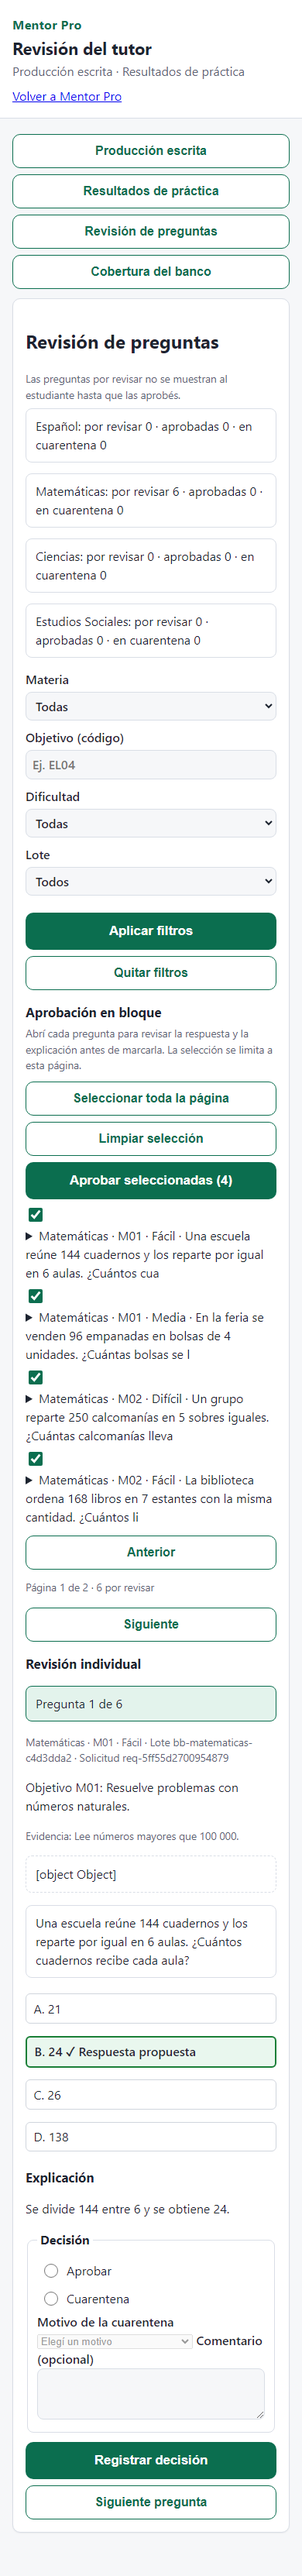
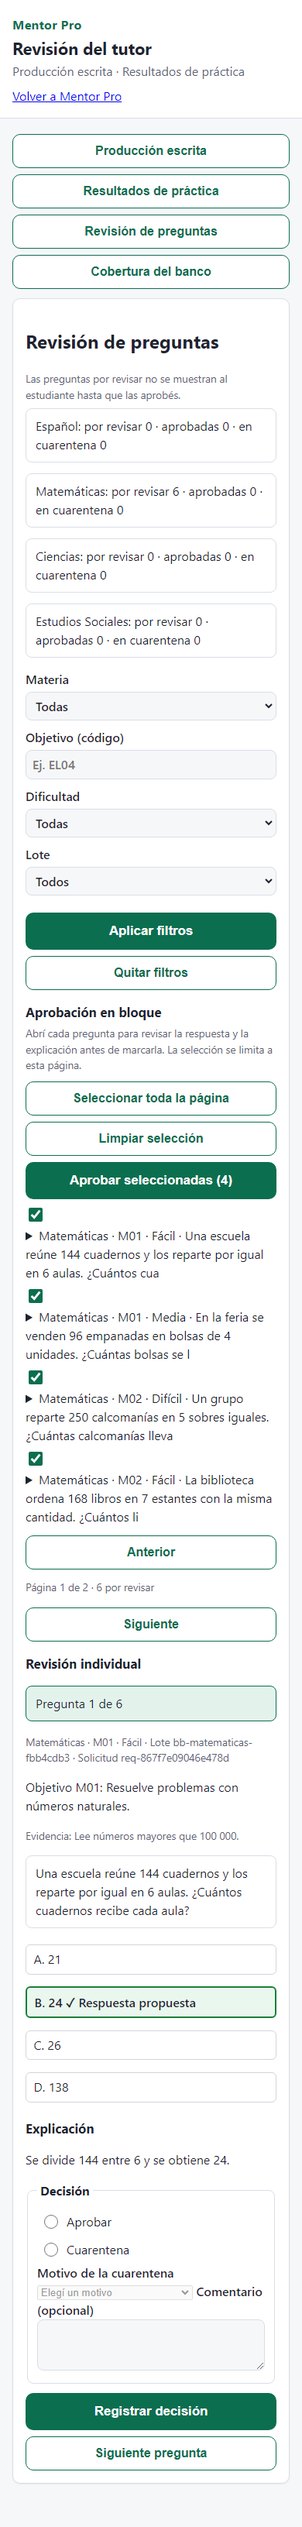
fix(T071): render structured question stimuli in tutor review
renderStimulus/showStimulus in tutor.js: {type:none} hidden, text keeps line
breaks, table text with pipe/tab rows becomes a <table>, plain strings
unchanged; DOM nodes and text only (no innerHTML). Used by the individual
review, the bulk review and the practice-results detail. Tests for plain,
text, markdown and tab tables, fallback and injection; screenshot evidence.

diff --git a/app/static/tutor.js b/app/static/tutor.js
@@ -21,6 +21,62 @@ function el(tag, attrs = {}, ...children) {
   return node;
 }
 
+// T071: a question's stimulus is {type: "none"} or {type: "text" | "table", text} (generation/parsing.py), or a
+// plain string in older records. Returns a node (or null when there is nothing to show). Built only with DOM nodes
+// and text, never innerHTML, so model-authored content cannot inject markup. A table's text becomes a <table> when
+// at least two lines are pipe- or tab-delimited; anything else keeps its line breaks, so no content is dropped.
+function stimulusText(stimulus) {
+  if (typeof stimulus === "string") return stimulus;
+  if (stimulus && typeof stimulus === "object" && stimulus.type !== "none" && typeof stimulus.text === "string") {
+    return stimulus.text;
+  }
+  return "";
+}
+
+function tableCells(line) {
+  const trimmed = line.trim();
+  if (trimmed.includes("\t")) return trimmed.split("\t").map((c) => c.trim());
+  if (!trimmed.includes("|")) return null;
+  return trimmed.replace(/^\|/, "").replace(/\|$/, "").split("|").map((c) => c.trim());
+}
+
+function renderStimulus(stimulus) {
+  const text = stimulusText(stimulus).trim();
+  if (!text) return null;
+  const box = el("div", { class: "source-text stimulus", "data-stimulus": stimulus.type || "text" });
+  const lines = text.split(/\r?\n/);
+  const rows = lines.map(tableCells);
+  if (stimulus.type !== "table" || rows.filter(Boolean).length < 2) {
+    box.textContent = text;
+    return box;
+  }
+  let table = null;
+  let header = true;
+  lines.forEach((line, i) => {
+    const cells = rows[i];
+    if (!cells) {
+      table = null;
+      header = true;
+      if (line.trim()) box.append(el("p", {}, line.trim()));
+      return;
+    }
+    if (cells.every((c) => /^:?-{2,}:?$/.test(c))) return; // markdown separator row
+    if (!table) {
+      table = el("table", { class: "stimulus-table" });
+      box.append(table);
+    }
+    table.append(el("tr", {}, ...cells.map((c) => el(header ? "th" : "td", {}, c))));
+    header = false;
+  });
+  return box;
+}
+
+function showStimulus(target, stimulus) {
+  const node = renderStimulus(stimulus);
+  target.replaceChildren(...(node ? [node] : []));
+  target.hidden = !node;
+}
+
 function token() {
   try {
     return sessionStorage.getItem(TOKEN_KEY) || "";
@@ -373,7 +429,7 @@ async function openPracticeSession(id) {
       return el("li", { class: cls, "data-label": o.label }, `${o.label}. ${o.text}`,
         ...tags.map((t) => el("span", { class: "option-tag" }, t)));
     }));
-    const stimulus = q.stimulus && q.stimulus.text ? [el("p", { class: "source-text" }, q.stimulus.text)] : [];
+    const stimulus = [renderStimulus(q.stimulus)].filter(Boolean);
     return el("li", { "data-slot": String(q.slot), "data-result": q.result },
       el("p", { class: "meta-line" }, `${q.objective_code} · ${DIFFICULTY_ES[q.difficulty] || "Sin nivel"} · ${SOURCE_ES[q.source]}`),
       ...stimulus, el("p", { class: "objective-text" }, q.stem), options,
@@ -449,8 +505,7 @@ function showReviewItem() {
     `${DIFFICULTY_ES[q.difficulty] || q.difficulty} · Lote ${q.batch_id} · Solicitud ${q.request_id}`;
   $("review-objective").textContent = `Objetivo ${q.objective_code}: ${q.objective_es}`;
   $("review-evidence").textContent = q.evidencia_es ? `Evidencia: ${q.evidencia_es}` : "";
-  $("review-stimulus").textContent = q.stimulus || "";
-  $("review-stimulus").hidden = !q.stimulus;
+  showStimulus($("review-stimulus"), q.stimulus);
   $("review-stem").textContent = q.stem;
   $("review-options").replaceChildren(...q.options.map((o) => {
     const key = o.label === q.answer_key;
@@ -613,7 +668,7 @@ function renderBulk(total) {
         `${DIFFICULTY_ES[q.difficulty] || q.difficulty} · ${q.stem.slice(0, 80)}`),
       el("p", { class: "muted small" }, `Objetivo ${q.objective_code}: ${q.objective_es}`),
       el("p", { class: "muted small" }, q.evidencia_es ? `Evidencia: ${q.evidencia_es}` : ""),
-      el("p", { class: "source-text" }, q.stimulus || ""),
+      ...[renderStimulus(q.stimulus)].filter(Boolean),
       el("p", { class: "submitted-text" }, q.stem), options,
       el("p", { class: "bulk-explanation" }, `Explicación: ${q.explanation || "Sin explicación."}`),
       el("p", { class: "muted small" }, `Lote ${q.batch_id} · Solicitud ${q.request_id}`));

diff --git a/app/static/styles.css b/app/static/styles.css
@@ -322,3 +322,10 @@ dialog#exit-dialog h2 { margin-top: 0; font-size: 1.2rem; }
 .coverage-table th, .coverage-table td { border: 1px solid var(--border); padding: 4px 8px; text-align: left;
   white-space: nowrap; }
 .feedback-scores .coverage-ok { border-color: var(--accent); }
+
+/* T071: structured stimulus in the tutor review (table stimuli keep rows and columns) */
+.stimulus p { margin: 0 0 6px; }
+.stimulus-table { border-collapse: collapse; margin: 6px 0; max-width: 100%; display: block; overflow-x: auto; }
+.stimulus-table th, .stimulus-table td { border: 1px solid var(--border); padding: 4px 8px; text-align: left;
+  white-space: normal; }
+.stimulus-table th { background: var(--surface-2, var(--surface)); font-weight: 600; }

diff --git a/app/static/tutor.html b/app/static/tutor.html
@@ -206,7 +206,7 @@
         <p id="review-meta" class="muted small"></p>
         <p id="review-objective"></p>
         <p id="review-evidence" class="muted small"></p>
-        <p id="review-stimulus" class="source-text" hidden></p>
+        <div id="review-stimulus" hidden></div>
         <p id="review-stem" class="submitted-text"></p>
         <ol id="review-options" class="plain-list review-options"></ol>
         <h3>Explicación</h3>

diff --git a/tests/app/test_tutor_bulk_approve.py b/tests/app/test_tutor_bulk_approve.py
@@ -243,3 +243,106 @@ def test_bulk_approval_in_the_browser(server, url):  # noqa: F811
             page.screenshot(path=os.path.join(shots, "bulk-result.png"), full_page=True)
         assert len(all_reviews(url)) == 4 and {r[1] for r in all_reviews(url)} == {"approved"}
         browser.close()
+
+
+# ---------------------------------------------------------------- structured stimulus (PR #77 review)
+
+TABLE = {"type": "table", "text": "Ventas de la feria\n| Puesto | Lunes | Martes |\n| --- | --- | --- |\n"
+                                  "| Frutas | 12 | 15 |\n| Pan | 8 | 11 |"}
+TEXT = {"type": "text", "text": "En la feria hay cuatro puestos.\nCada puesto vende frutas."}
+
+
+def set_stimulus(url, request_id, stimulus):  # noqa: F811
+    from psycopg.types.json import Jsonb
+
+    with psycopg.connect(url) as conn:  # synthetic test database only
+        conn.execute("UPDATE generation.question_attempt SET item = jsonb_set(item::jsonb, '{stimulus}', %s) "
+                     "WHERE request_id = %s", (Jsonb(stimulus), request_id))
+
+
+def test_the_queue_returns_the_structured_stimulus_unchanged(six, url):  # noqa: F811
+    app, _ = six
+    rid = ids(app)[0]
+    set_stimulus(url, rid, TABLE)
+    q = next(q for q in call(app, QUEUE).json()["questions"] if q["request_id"] == rid)
+    assert q["stimulus"] == TABLE
+
+
+@pytest.mark.skipif(not os.environ.get("MENTOR_PRO_BROWSER"), reason="set MENTOR_PRO_BROWSER=1")
+def test_stimulus_rendering_cases(server):
+    from playwright.sync_api import sync_playwright
+
+    base, _ = server
+    cases = {
+        "none": {"type": "none"}, "missing": None, "empty": {"type": "text", "text": "  "},
+        "plain": "Texto simple de un registro anterior.", "text": TEXT, "table": TABLE,
+        "tabs": {"type": "table", "text": "Mes\tLluvia\nEnero\t20\nFebrero\t35"},
+        "loose": {"type": "table", "text": "Lunes: 12 frutas\nMartes: 15 frutas"},
+        "unsafe": {"type": "text", "text": "<img src=x onerror=\"window.hacked=1\"><b>negrita</b>"},
+    }
+    with sync_playwright() as p:
+        browser = p.chromium.launch()
+        page = browser.new_page()
+        page.goto(base)
+        out = page.evaluate("""(cases) => Object.fromEntries(Object.entries(cases).map(([k, s]) => {
+            const n = renderStimulus(s);
+            if (n) document.body.append(n);
+            return [k, n && { text: n.textContent, html: n.innerHTML,
+              rows: [...n.querySelectorAll('tr')].map((r) => [...r.children].map((c) => c.tagName + ':' + c.textContent)),
+              paras: [...n.querySelectorAll('p')].map((x) => x.textContent) }];
+        }))""", cases)
+        assert out["none"] is None and out["missing"] is None and out["empty"] is None
+        assert out["plain"]["text"] == cases["plain"] and out["plain"]["rows"] == []
+        assert out["text"]["text"] == TEXT["text"] and out["text"]["rows"] == []          # line breaks kept
+        assert out["table"]["paras"] == ["Ventas de la feria"]
+        assert out["table"]["rows"] == [["TH:Puesto", "TH:Lunes", "TH:Martes"], ["TD:Frutas", "TD:12", "TD:15"],
+                                        ["TD:Pan", "TD:8", "TD:11"]]                        # separator dropped
+        assert out["tabs"]["rows"] == [["TH:Mes", "TH:Lluvia"], ["TD:Enero", "TD:20"], ["TD:Febrero", "TD:35"]]
+        assert out["loose"]["rows"] == [] and out["loose"]["text"] == cases["loose"]["text"]  # nothing dropped
+        assert out["unsafe"]["text"] == cases["unsafe"]["text"] and "<img" not in out["unsafe"]["html"]
+        assert page.evaluate("window.hacked === undefined && document.querySelectorAll('img').length === 0")
+        browser.close()
+
+
+@pytest.mark.skipif(not os.environ.get("MENTOR_PRO_BROWSER"), reason="set MENTOR_PRO_BROWSER=1")
+def test_structured_stimulus_in_both_review_views(server, url):  # noqa: F811
+    from playwright.sync_api import expect, sync_playwright
+
+    base, _ = server
+    shots = os.environ.get("MENTOR_PRO_SCREENSHOTS")
+    with sync_playwright() as p:
+        browser = p.chromium.launch()
+        page = browser.new_page(viewport={"width": 390, "height": 844})
+        page.goto(base)
+        page.fill("#tutor-token", TOKEN)
+        page.click("#tutor-enter")
+        page.click("#tutor-nav-review")
+        expect(page.locator("#bulk-list .bulk-row")).to_have_count(6)          # the queue has loaded
+        first = page.locator("#review-item").get_attribute("data-request")
+        second = page.locator("#bulk-list .bulk-row").nth(1).get_attribute("data-request")
+        set_stimulus(url, first, TABLE)
+        set_stimulus(url, second, TEXT)
+        page.click("#review-filters button[type=submit]")                     # reload with the stimuli
+
+        individual = page.locator("#review-stimulus")                          # individual review
+        expect(individual).to_be_visible()
+        expect(individual.locator("table th")).to_have_text(["Puesto", "Lunes", "Martes"])
+        expect(individual.locator("table tr")).to_have_count(3)
+        expect(individual).not_to_contain_text("[object Object]")
+        page.click("#review-skip")
+        expect(individual).to_have_text(TEXT["text"])
+        page.click("#review-skip")
+        expect(individual).to_be_hidden()                                     # type none: nothing shown
+
+        row = page.locator(f'#bulk-list .bulk-row[data-request="{first}"]')    # bulk review
+        row.locator("summary").click()
+        expect(row.locator("table td")).to_have_text(["Frutas", "12", "15", "Pan", "8", "11"])
+        expect(row.locator(".bulk-explanation")).to_contain_text("Explicación:")
+        expect(row.locator("li.review-key")).to_contain_text("Respuesta propuesta")
+        plain = page.locator(f'#bulk-list .bulk-row[data-request="{second}"]')
+        plain.locator("summary").click()
+        expect(plain.locator(".stimulus")).to_have_text(TEXT["text"])
+        expect(page.locator("#tutor-review")).not_to_contain_text("[object Object]")
+        if shots:
+            page.screenshot(path=os.path.join(shots, "structured-stimulus.png"), full_page=True)
+        browser.close()

diff --git a/docs/progress/task_T071_result.md b/docs/progress/task_T071_result.md
@@ -77,7 +77,25 @@
 - An approval makes a question servable to the student at once. The
   confirmation dialog and the expandable inspection keep the tutor in
   control, but the page cannot force the tutor to open every question.
-- The individual and bulk views both show `[object Object]` when a
-  stimulus is a structured object. This rendering predates T071 (T068).
+- **PR #77 review correction (structured stimulus):** both views used to
+  show `[object Object]` for a structured stimulus. This is fixed.
+  - Supported shapes (`generation/parsing.py`): `{"type": "none"}`,
+    `{"type": "text" | "table", "text": ...}`, and plain strings in older
+    records.
+  - `renderStimulus` in `tutor.js` builds DOM nodes and text only, never
+    `innerHTML`.
+  - A table stimulus with at least two pipe- or tab-delimited lines
+    becomes a table. Any other text keeps its line breaks, so no content
+    is dropped. `none` and empty stimuli are hidden.
+  - The same function now serves the individual review, the bulk review
+    and the practice-results detail.
+  - No schema, generation or approval change.
+  - Production table text was not sampled because the read-only
+    production query was not permitted from this session. Unrecognised
+    layouts fall back to line-preserving text.
+  - Evidence: `screenshots/T071/structured-stimulus.png`; tests
+    `test_stimulus_rendering_cases` and
+    `test_structured_stimulus_in_both_review_views`. Those tests include
+    an injection case.
 - Operations: no migration and no configuration change. Deploying needs
   the standard release flow and PO authorization.
